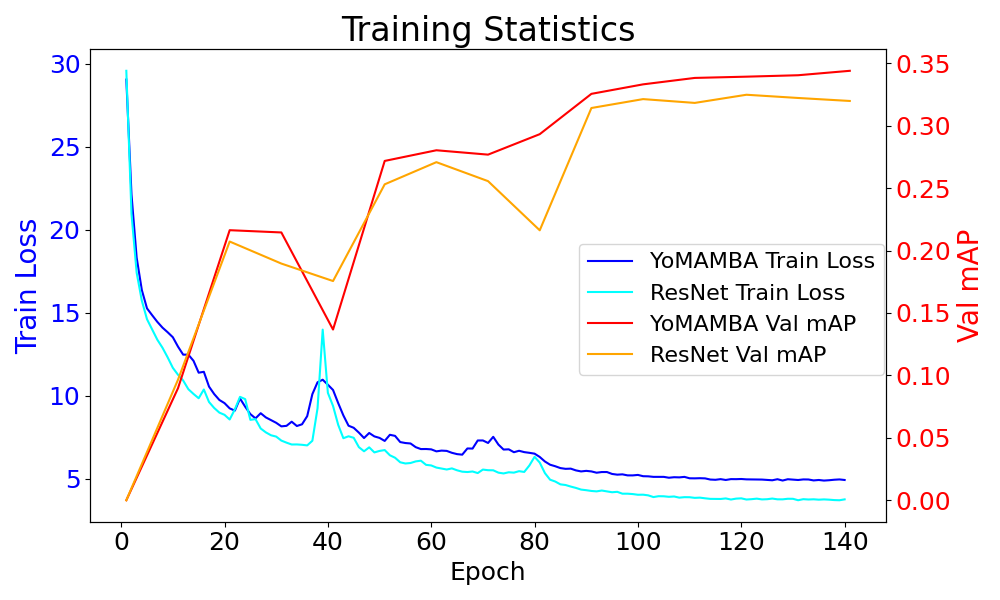
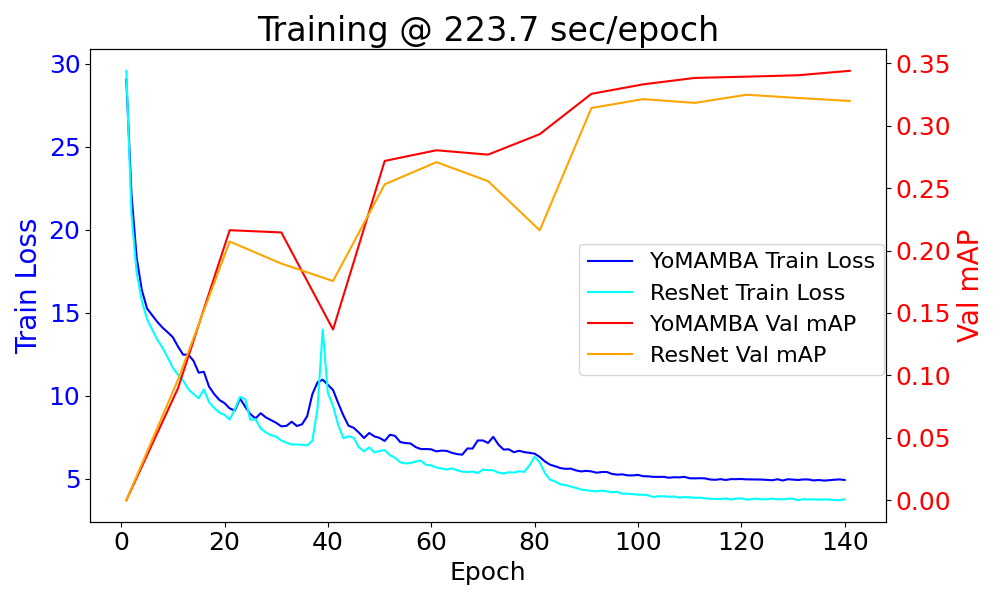
train times in plot

Changed region(s): [[0.248, 0.03, 0.713, 0.09]]

diff --git a/YoMAMBA/plot_loss_mAP.py b/YoMAMBA/plot_loss_mAP.py
@@ -45,7 +45,7 @@ lines_2, labels_2 = ax2.get_legend_handles_labels()
 ax1.legend(lines_1 + lines_2, labels_1 + labels_2, fontsize=16,
            loc="center left", bbox_to_anchor=(0.6, 0.45))
 
-plt.title("Training Statistics", fontsize=24)
+plt.title("Training @ 223.7 sec/epoch", fontsize=24)
 plt.tight_layout()
 os.makedirs("images", exist_ok=True)
 plt.savefig("images/figure_1.png")

diff --git a/YoMAMBA/view_metrics.py b/YoMAMBA/view_metrics.py
@@ -43,7 +43,7 @@ def plot_metrics(train_losses, train_mAP, val_losses, val_mAP, train_times, mode
     plt.close()
 
 
-model_name = "mamba"
+model_name = "resnet18"
 metrics_path = f"metrics/{model_name}/metrics.pth"
 assert os.path.exists(metrics_path), "No saved metrics found."
 
